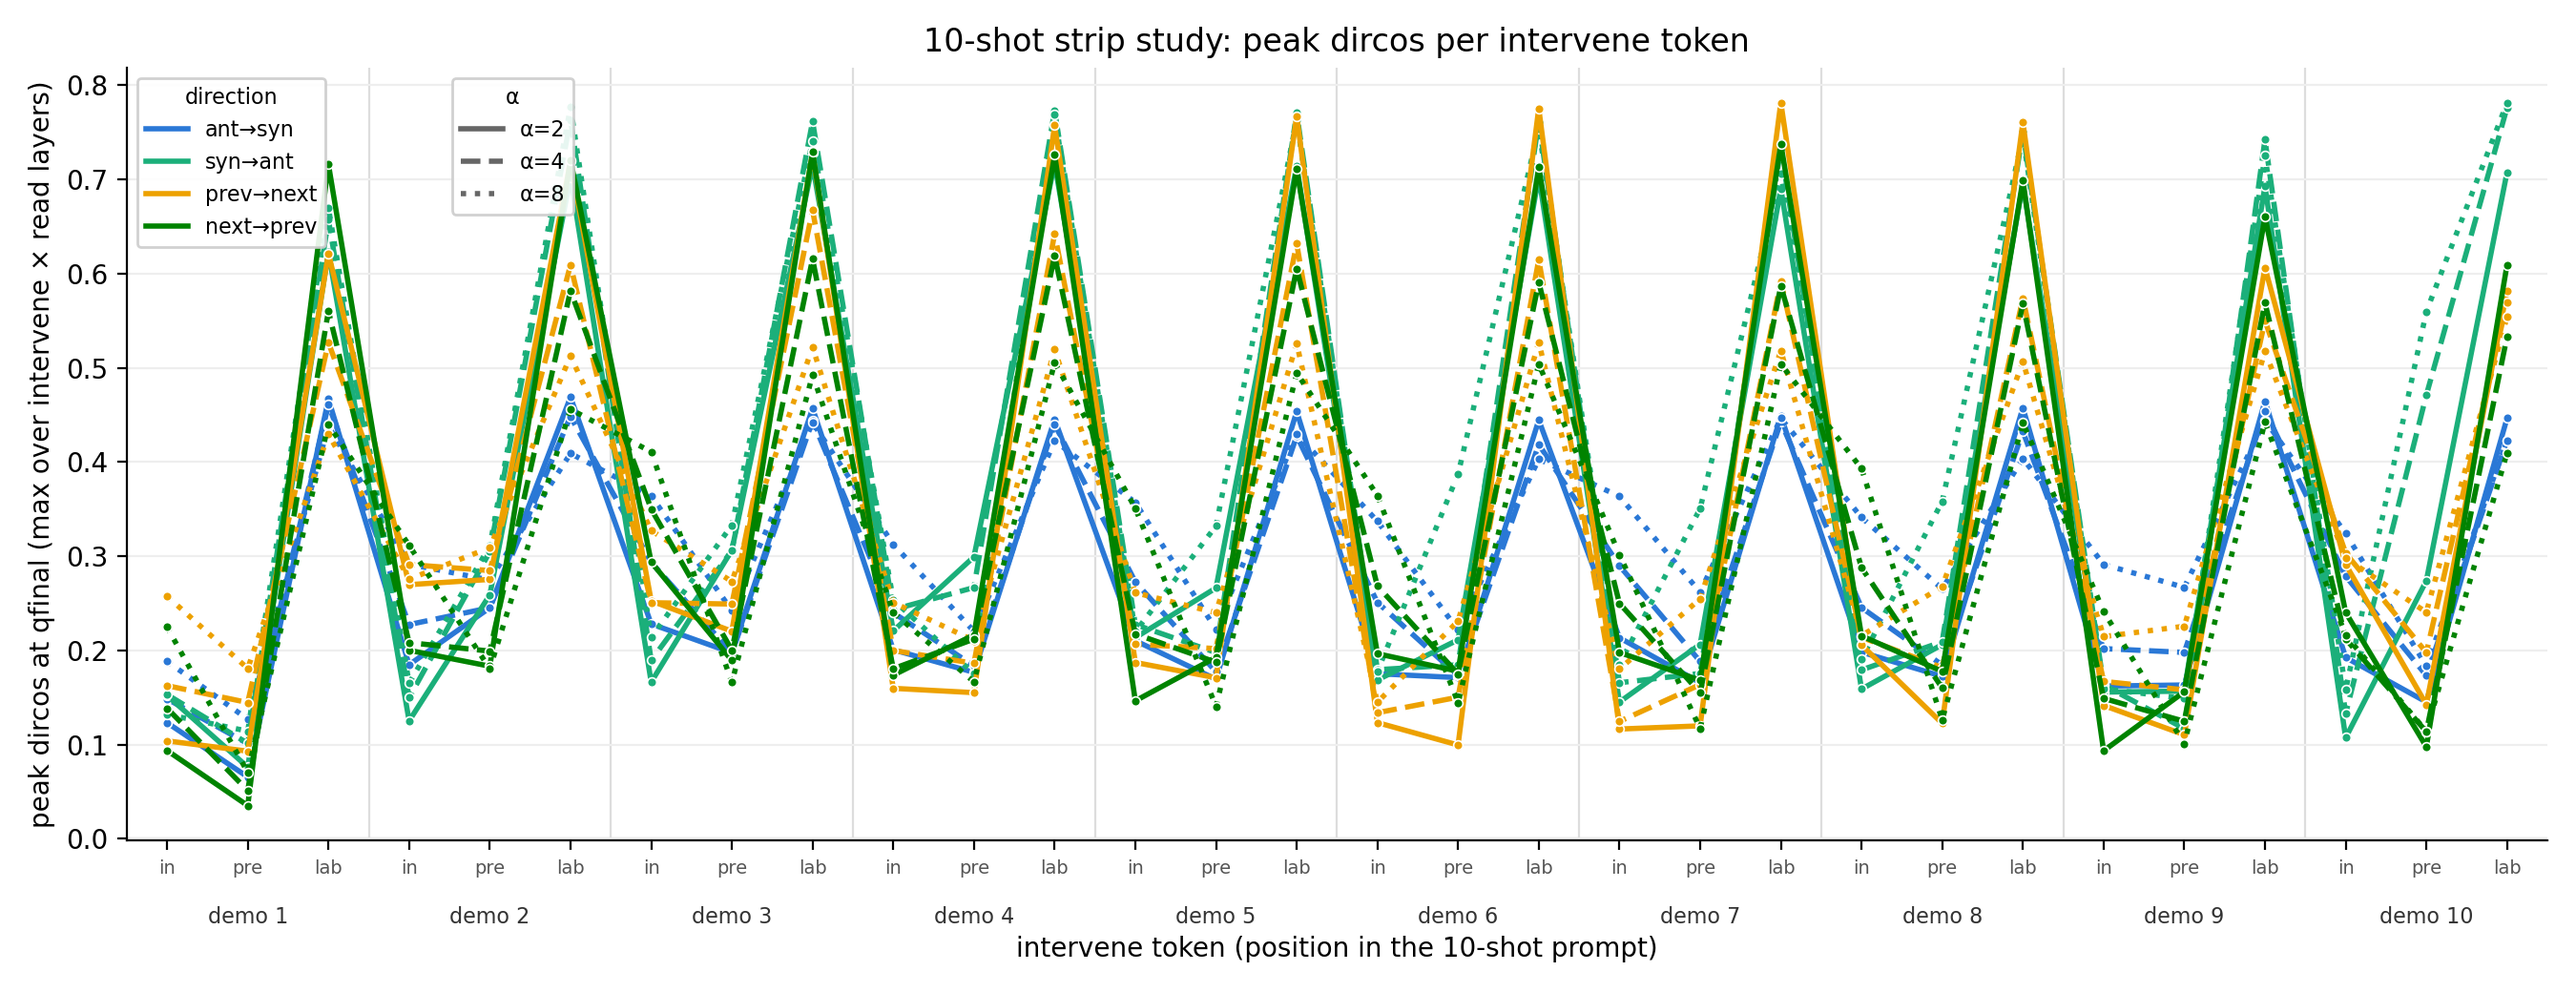
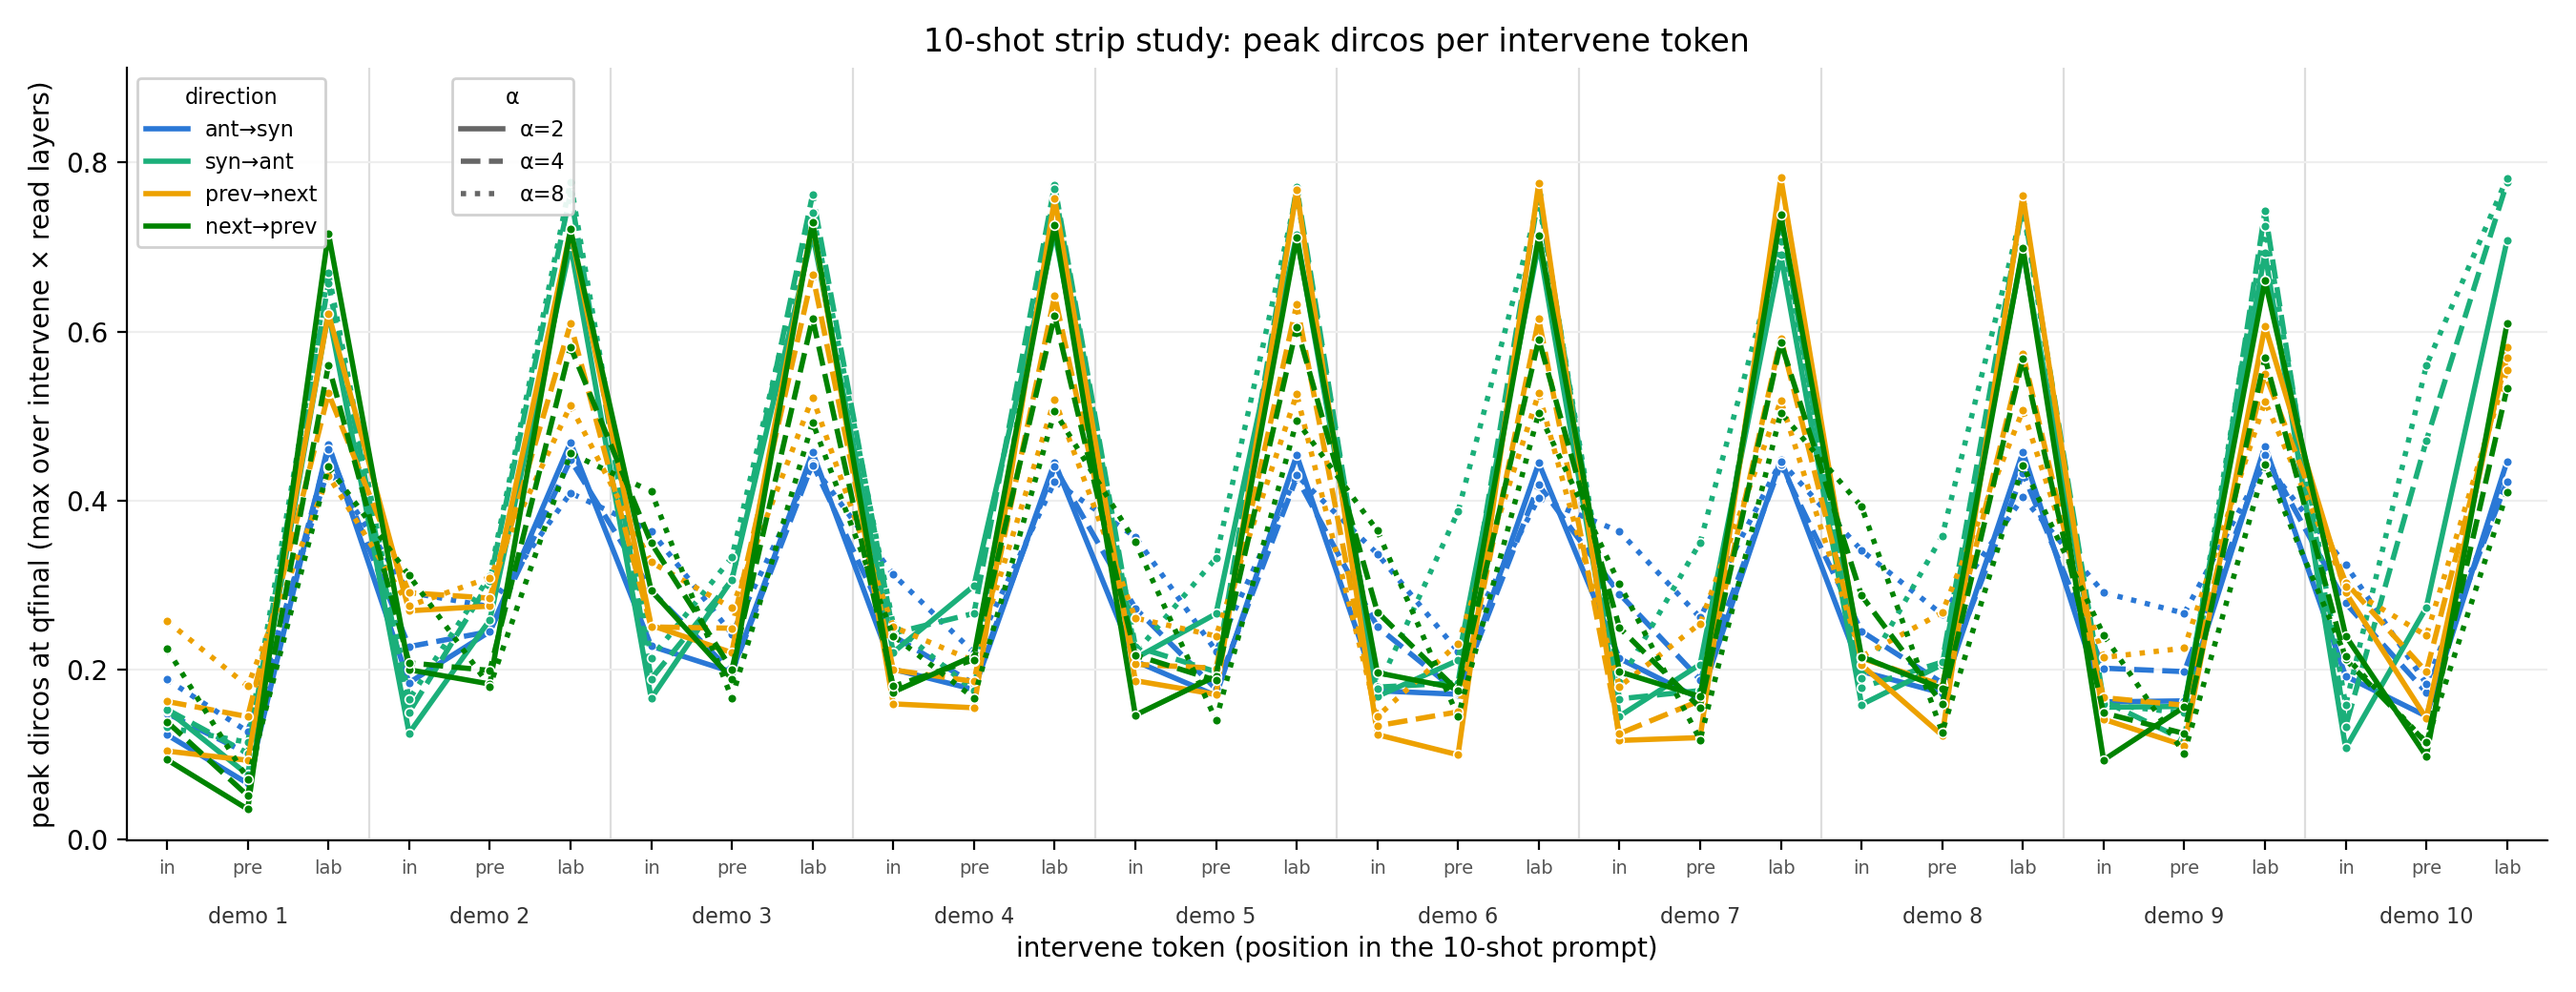
Stream S: data-driven y-range for scalar_lines figures
dircos label values sit ~0.4-0.8, so the old 0-anchored axis (forced by the axhline(0)
reference) wasted the bottom half of the plot. Y-limits now fit the data with padding;
the zero line is drawn only when 0 is in range. Both variants re-rendered.

Changed region(s): [[0.0311, 0.1231, 0.9956, 0.8], [0.9644, 0.1538, 0.9956, 0.1846], [0.0311, 0.1538, 0.0622, 0.1846]]

diff --git a/src/eval_scripts/plot_tenshot_strip_lines.py b/src/eval_scripts/plot_tenshot_strip_lines.py
@@ -73,15 +73,24 @@ def main():
     x = np.arange(len(ikeys))
 
     fig, ax = plt.subplots(figsize=(7.5, 5.2) if args.labels_only else (13.5, 5.2))
+    all_y = []
     for (task_pair, dir_name, clab), color in zip(COMBOS, COMBO_COLORS):
         for a in args.alphas:
             y = [g if g is None else reduce_grid(g, args.top_k)
                  for g in (load_grid(args.root, task_pair, dir_name, tk, a) for tk in ikeys)]
             y = np.array([np.nan if v is None else v for v in y], dtype=float)
+            all_y.append(y)
             ax.plot(x, y, ALPHA_STYLES.get(a, "-"), color=color, linewidth=2,
                     marker="o", markersize=3.5, markeredgecolor="white", markeredgewidth=0.6)
 
-    ax.axhline(0.0, color="#bbbbbb", linewidth=0.8, zorder=0)
+    # data-driven y-range (don't force 0 into view: dircos label values sit ~0.4-0.8 and a
+    # 0-anchored axis wastes the bottom half); ~15% headroom at the top for the legends.
+    yv = np.concatenate(all_y)
+    lo, hi = np.nanmin(yv), np.nanmax(yv)
+    pad = 0.05 * max(hi - lo, 1e-3)
+    ax.set_ylim(lo - pad, hi + 3.5 * pad)
+    if lo - pad <= 0.0 <= hi + 3.5 * pad:
+        ax.axhline(0.0, color="#bbbbbb", linewidth=0.8, zorder=0)
     stat = "peak" if args.top_k == 1 else f"top-{args.top_k} mean"
     ax.set_xticks(x)
     if args.labels_only:
